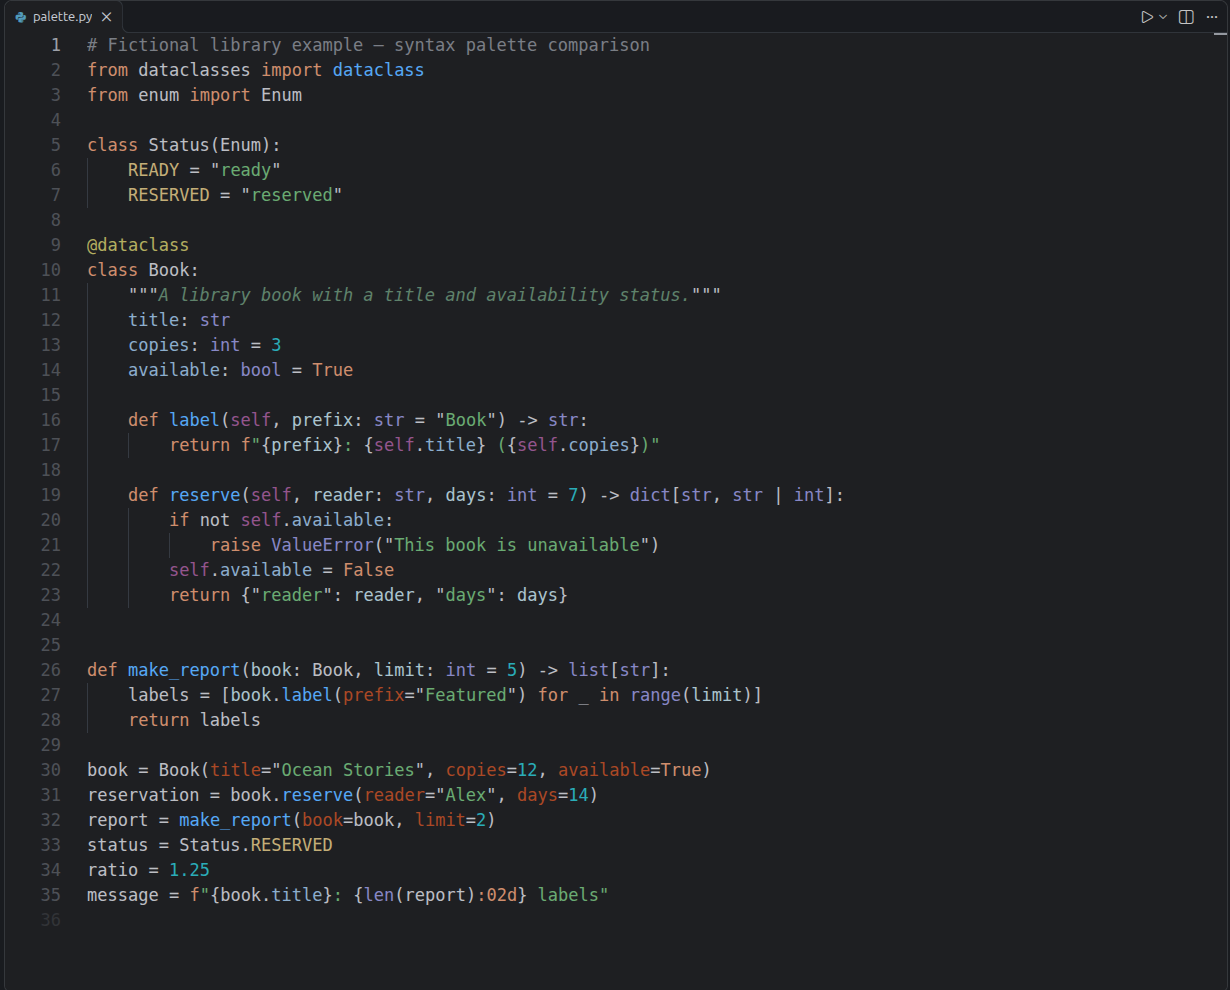
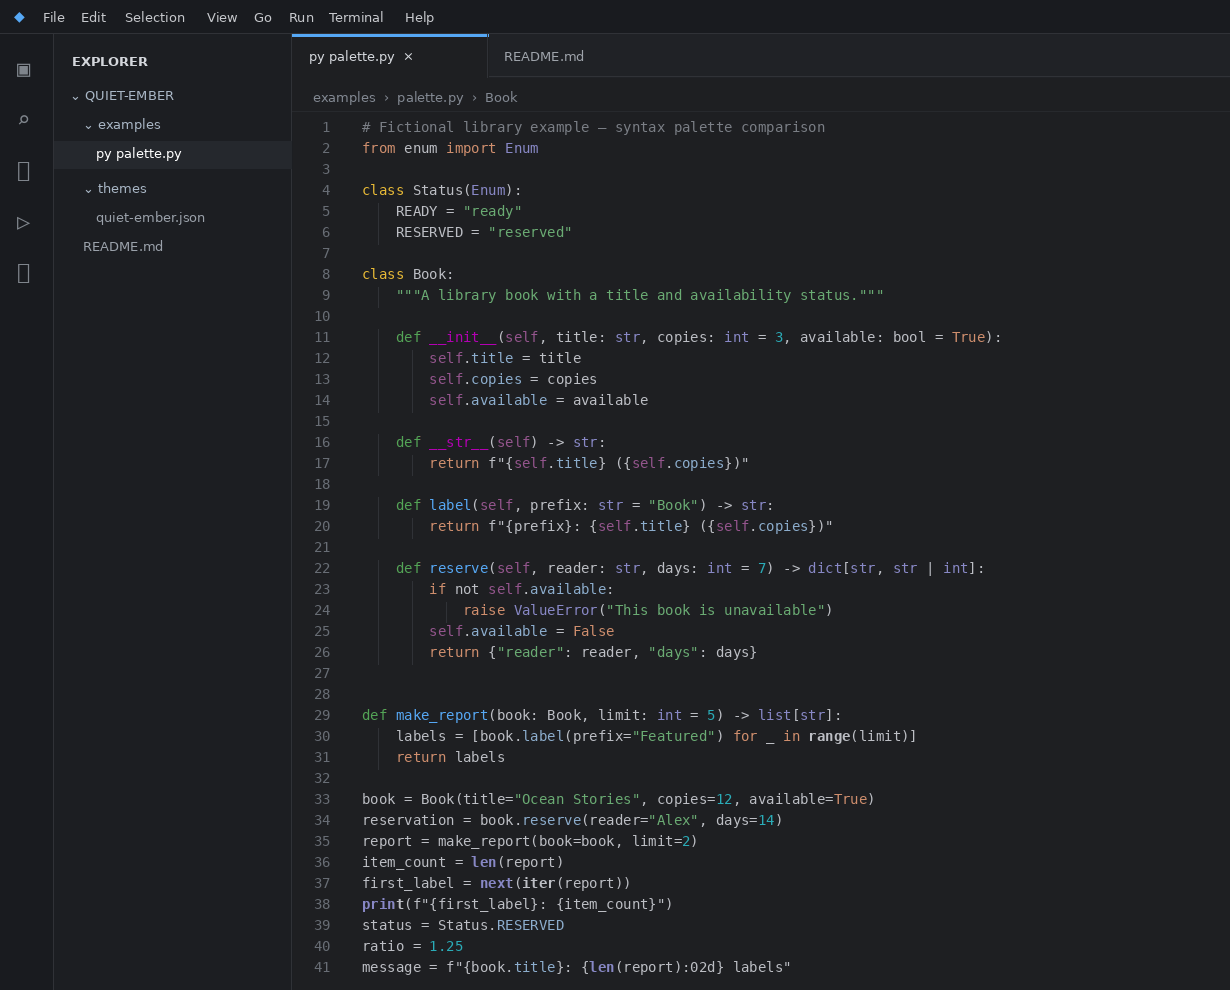
release: Quiet Ember Theme 1.2.0

diff --git a/examples/palette.py b/examples/palette.py
@@ -1,17 +1,20 @@
 # Fictional library example — syntax palette comparison
-from dataclasses import dataclass
 from enum import Enum
 
 class Status(Enum):
     READY = "ready"
     RESERVED = "reserved"
 
-@dataclass
 class Book:
     """A library book with a title and availability status."""
-    title: str
-    copies: int = 3
-    available: bool = True
+
+    def __init__(self, title: str, copies: int = 3, available: bool = True):
+        self.title = title
+        self.copies = copies
+        self.available = available
+
+    def __str__(self) -> str:
+        return f"{self.title} ({self.copies})"
 
     def label(self, prefix: str = "Book") -> str:
         return f"{prefix}: {self.title} ({self.copies})"
@@ -30,6 +33,9 @@ def make_report(book: Book, limit: int = 5) -> list[str]:
 book = Book(title="Ocean Stories", copies=12, available=True)
 reservation = book.reserve(reader="Alex", days=14)
 report = make_report(book=book, limit=2)
+item_count = len(report)
+first_label = next(iter(report))
+print(f"{first_label}: {item_count}")
 status = Status.RESERVED
 ratio = 1.25
 message = f"{book.title}: {len(report):02d} labels"

diff --git a/README.md b/README.md
@@ -6,7 +6,7 @@ A dark Visual Studio Code theme with warm accents, a charcoal background and cle
 
 ![Quiet Ember — a fictional library example in Python with Pylance](assets/python-palette.png)
 
-The preview uses a **fully fictional library example written for this theme**. Captured in VS Code with Python and Pylance enabled. Source: [examples/palette.py](examples/palette.py).
+The preview uses a **fully fictional library example written for this theme**, rendered with the theme palette to show Python special methods such as `__init__` and `__str__` in bright purple. Source: [examples/palette.py](examples/palette.py).
 
 ## Install
 
@@ -24,18 +24,24 @@ You can also download a `.vsix` from [GitHub Releases](https://github.com/Toximi
 | --- | --- | --- |
 | Classes and user-defined types | Neutral gray | `Book`, `Status` |
 | Built-in Python types | Lavender | `int`, `str`, `list` |
+| Built-in functions | Lavender | `len`, `print`, `next` |
 | Functions and methods | Blue | `make_report`, `book.reserve` |
+| Python special methods | Bright purple | `__init__`, `__str__` |
 | Enum values and readonly variables | Sand | `Status.RESERVED` |
 | Attributes | Slate blue | `self.copies`, `book.title` |
 | `self` and `cls` | Muted purple | `self`, `cls` |
 | Function parameters | Pale cyan | `reader`, `days` in a definition |
 | Keyword argument names | Burnt orange | `days=14` |
-| Keywords | Warm orange | `class`, `def`, `return` |
+| Python class keyword | Golden yellow | `class` |
+| Python function keyword | Green | `def` |
+| Other Python keywords | Warm orange | `return`, `if`, `raise` |
 | Strings | Green | `"Ocean Stories"` |
 | Numbers | Teal | `12`, `1.25` |
 | Comments | Muted gray | `# explanation` |
 
 The theme includes editor, sidebar, tabs, menus, terminal, diff and Git status colors. Brackets use a consistent neutral color rather than a rainbow.
+
+Built-in functions such as `len` and `print` are predefined Python symbols, not reserved keywords. They use the same lavender color as built-in types. Python keywords follow the PyCharm reference: `class` is golden yellow, `def` is green and other keywords such as `return` are warm orange.
 
 Palette references: JetBrains' [Dark scheme](https://github.com/JetBrains/intellij-community/blob/master/platform/platform-resources/src/themes/expUI/expUI_darkScheme.xml) and [Python highlighter](https://github.com/JetBrains/intellij-community/blob/master/python/python-syntax-core/src/com/jetbrains/python/highlighting/PyHighlighter.java). This is an adaptation for VS Code and Pylance, with deliberate differences such as sand enum values and distinct attribute colors.
 

diff --git a/CHANGELOG.md b/CHANGELOG.md
@@ -1,5 +1,12 @@
 # Changelog
 
+## 1.2.0
+
+- Show Python special methods such as `__init__` and `__str__` in bright purple in the preview.
+- Color Python magic method names from their `support.function.magic.python` TextMate scope.
+- Style built-in Python functions lavender, matching the PyCharm reference screenshot, and clarify their distinction from language keywords.
+- Match the PyCharm keyword colors: `class` in golden yellow and `def` in green.
+
 ## 1.1.0
 
 - Bring syntax colors closer to the JetBrains Dark editor palette.
